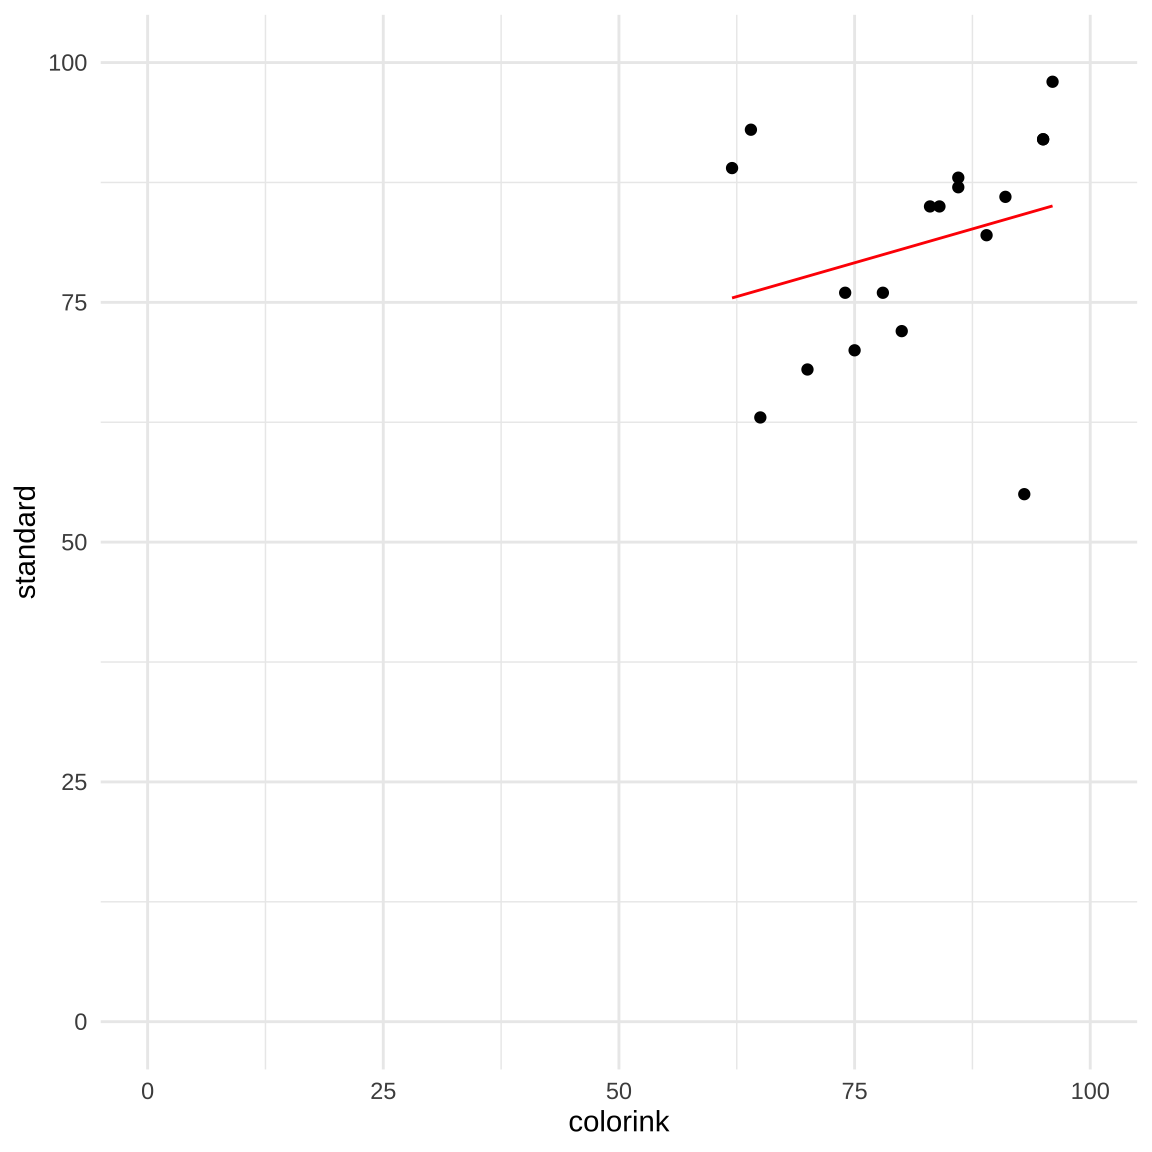
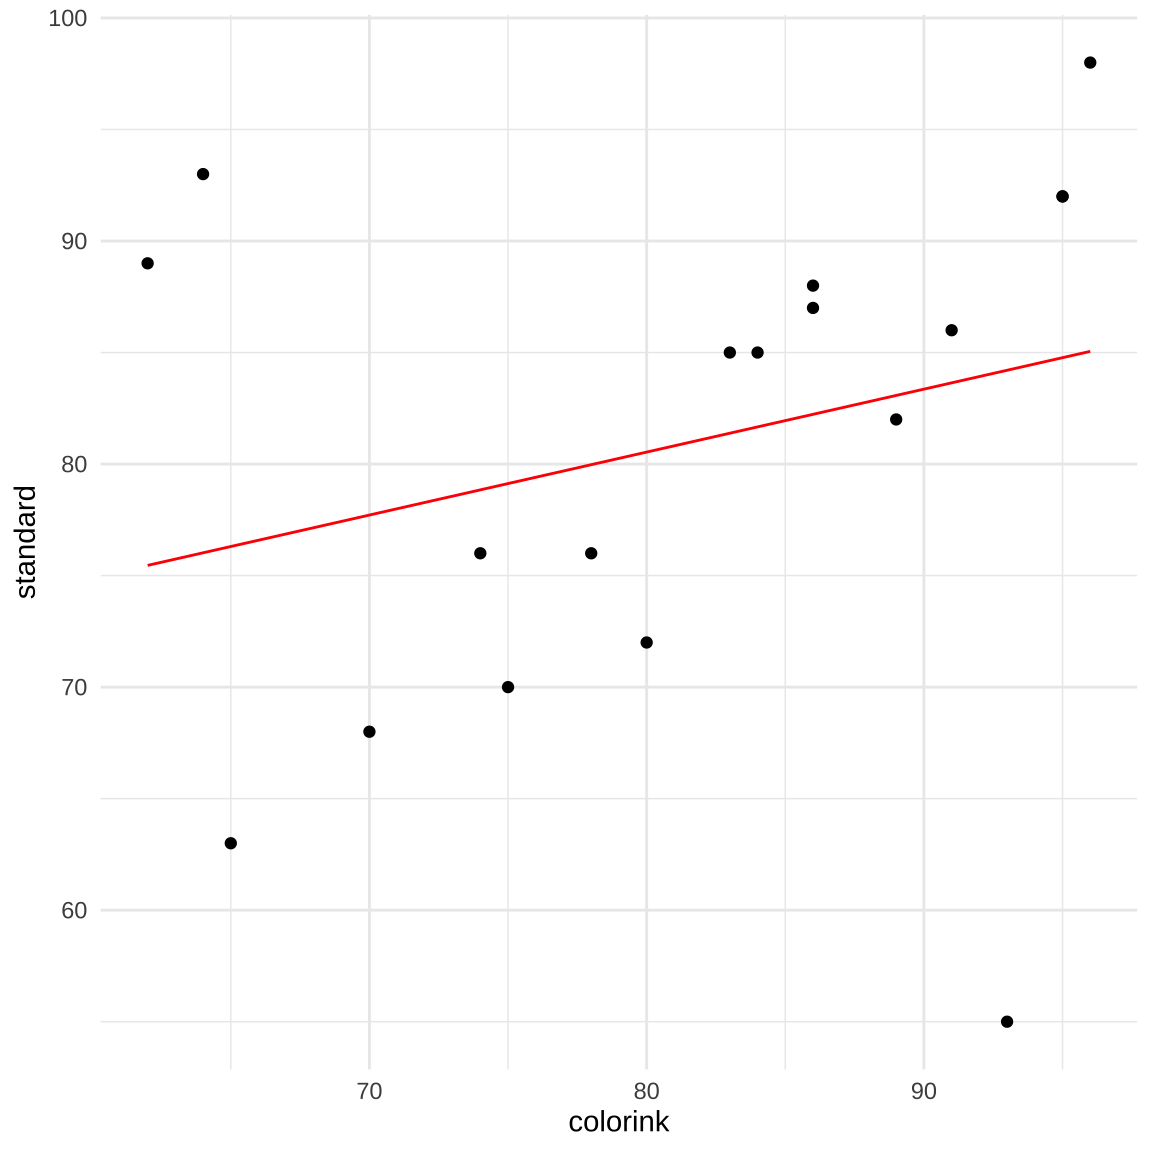
added text

diff --git a/docs/stat-modeling-outlier.html b/docs/stat-modeling-outlier.html
@@ -752,7 +752,7 @@ div.csl-indent {
 
 </header>
 
-<p><em>Letzte Änderung am 17. January 2024 um 20:40:24</em></p>
+<p><em>Letzte Änderung am 17. January 2024 um 21:02:34</em></p>
 <blockquote class="blockquote">
 <p><em>“You should be far more concentrated with your current trajectory than with your current results” — Atomic Habits’</em></p>
 </blockquote>
@@ -1488,20 +1488,47 @@ Anwendungsbeispiel: Ausreißer in einer simplen Regression
 <p><span class="citation" data-cites="hardin2007generalized">Hardin und Hilbe (<a href="#ref-hardin2007generalized" role="doc-biblioref">2007</a>)</span> bezeichnen Werte, die über <span class="math inline">\(4/n\)</span> liegen als problematisch. <span class="math inline">\(n\)</span> ist hierbei die Stichprobengröße. Unsere Grenze wäre damit bei <span class="math inline">\(4/18 = 0.22\)</span></p>
 </dd>
 </dl>
-<div class="cell" data-layout-align="center">
-<div class="sourceCode cell-code" id="cb36"><pre class="sourceCode r code-with-copy"><code class="sourceCode r"><span id="cb36-1"><a href="#cb36-1" aria-hidden="true" tabindex="-1"></a>standard_colorink_tbl <span class="sc">%&gt;%</span> </span>
-<span id="cb36-2"><a href="#cb36-2" aria-hidden="true" tabindex="-1"></a>  <span class="fu">ggplot</span>(<span class="fu">aes</span>(colorink, standard)) <span class="sc">+</span></span>
-<span id="cb36-3"><a href="#cb36-3" aria-hidden="true" tabindex="-1"></a>  <span class="fu">theme_minimal</span>() <span class="sc">+</span></span>
-<span id="cb36-4"><a href="#cb36-4" aria-hidden="true" tabindex="-1"></a>  <span class="fu">ylim</span>(<span class="dv">0</span>, <span class="dv">100</span>) <span class="sc">+</span> <span class="fu">xlim</span>(<span class="dv">0</span>, <span class="dv">100</span>) <span class="sc">+</span></span>
-<span id="cb36-5"><a href="#cb36-5" aria-hidden="true" tabindex="-1"></a>  <span class="fu">geom_point</span>() <span class="sc">+</span></span>
-<span id="cb36-6"><a href="#cb36-6" aria-hidden="true" tabindex="-1"></a>  <span class="fu">geom_line</span>(<span class="fu">aes</span>(<span class="at">y =</span> <span class="fu">predict</span>(fit)), <span class="at">color =</span> <span class="st">"red"</span>)</span></code><button title="In die Zwischenablage kopieren" class="code-copy-button"><i class="bi"></i></button></pre></div>
-<div class="cell-output-display">
-<div id="fig-app-compare-outlier-1" class="quarto-figure quarto-figure-center anchored">
+<div class="cell">
+<div class="sourceCode cell-code" id="cb36"><pre class="sourceCode r code-with-copy"><code class="sourceCode r"><span id="cb36-1"><a href="#cb36-1" aria-hidden="true" tabindex="-1"></a>clean_tbl <span class="ot">&lt;-</span> fit <span class="sc">%&gt;%</span> </span>
+<span id="cb36-2"><a href="#cb36-2" aria-hidden="true" tabindex="-1"></a>  <span class="fu">augment</span>() <span class="sc">%&gt;%</span> </span>
+<span id="cb36-3"><a href="#cb36-3" aria-hidden="true" tabindex="-1"></a>  <span class="fu">filter</span>(.cooksd <span class="sc">&lt;</span> <span class="fl">0.22</span>)</span></code><button title="In die Zwischenablage kopieren" class="code-copy-button"><i class="bi"></i></button></pre></div>
+</div>
+<p>Residuals mean plus minus 2</p>
+<div>
+<div class="sourceCode cell-code" id="cb37"><pre class="sourceCode r code-with-copy"><code class="sourceCode r"><span id="cb37-1"><a href="#cb37-1" aria-hidden="true" tabindex="-1"></a>standard_colorink_tbl <span class="sc">%&gt;%</span> </span>
+<span id="cb37-2"><a href="#cb37-2" aria-hidden="true" tabindex="-1"></a>  <span class="fu">ggplot</span>(<span class="fu">aes</span>(colorink, standard)) <span class="sc">+</span></span>
+<span id="cb37-3"><a href="#cb37-3" aria-hidden="true" tabindex="-1"></a>  <span class="fu">theme_minimal</span>() <span class="sc">+</span></span>
+<span id="cb37-4"><a href="#cb37-4" aria-hidden="true" tabindex="-1"></a>  <span class="co">#ylim(0, 100) + xlim(0, 100) +</span></span>
+<span id="cb37-5"><a href="#cb37-5" aria-hidden="true" tabindex="-1"></a>  <span class="fu">geom_point</span>() <span class="sc">+</span></span>
+<span id="cb37-6"><a href="#cb37-6" aria-hidden="true" tabindex="-1"></a>  <span class="fu">geom_line</span>(<span class="fu">aes</span>(<span class="at">y =</span> <span class="fu">predict</span>(fit)), <span class="at">color =</span> <span class="st">"red"</span>)</span>
+<span id="cb37-7"><a href="#cb37-7" aria-hidden="true" tabindex="-1"></a></span>
+<span id="cb37-8"><a href="#cb37-8" aria-hidden="true" tabindex="-1"></a>clean_tbl <span class="sc">%&gt;%</span> </span>
+<span id="cb37-9"><a href="#cb37-9" aria-hidden="true" tabindex="-1"></a>  <span class="fu">ggplot</span>(<span class="fu">aes</span>(colorink, standard)) <span class="sc">+</span></span>
+<span id="cb37-10"><a href="#cb37-10" aria-hidden="true" tabindex="-1"></a>  <span class="fu">theme_minimal</span>() <span class="sc">+</span></span>
+<span id="cb37-11"><a href="#cb37-11" aria-hidden="true" tabindex="-1"></a>  <span class="co">#ylim(0, 100) + xlim(0, 100) +</span></span>
+<span id="cb37-12"><a href="#cb37-12" aria-hidden="true" tabindex="-1"></a>  <span class="fu">geom_point</span>() </span></code><button title="In die Zwischenablage kopieren" class="code-copy-button"><i class="bi"></i></button></pre></div>
+<div id="fig-app-compare-outlier-1" class="cell quarto-layout-panel">
 <figure class="figure">
-<p><img src="stat-modeling-outlier_files/figure-html/fig-app-compare-outlier-1-1.png" class="img-fluid figure-img" width="576"></p>
-<figcaption class="figure-caption">Abbildung&nbsp;41.5— Densityplot der Verteilungen vor und nach der Imputation.</figcaption>
+<div class="quarto-layout-row quarto-layout-valign-top">
+<div class="cell-output-display quarto-layout-cell quarto-layout-cell-subref" style="flex-basis: 50.0%;justify-content: center;">
+<div id="fig-app-compare-outlier-1-1" class="quarto-figure quarto-figure-center anchored">
+<figure class="figure">
+<p><img src="stat-modeling-outlier_files/figure-html/fig-app-compare-outlier-1-1.png" class="img-fluid figure-img" data-ref-parent="fig-app-compare-outlier-1" width="576"></p>
+<figcaption class="figure-caption">(a) Imputation mit dem Mittelwert.</figcaption>
 </figure>
 </div>
+</div>
+<div class="cell-output-display quarto-layout-cell quarto-layout-cell-subref" style="flex-basis: 50.0%;justify-content: center;">
+<div id="fig-app-compare-outlier-1-2" class="quarto-figure quarto-figure-center anchored">
+<figure class="figure">
+<p><img src="stat-modeling-outlier_files/figure-html/fig-app-compare-outlier-1-2.png" class="img-fluid figure-img" data-ref-parent="fig-app-compare-outlier-1" width="576"></p>
+<figcaption class="figure-caption">(b) Imputation mit dem Median.</figcaption>
+</figure>
+</div>
+</div>
+</div>
+<p></p><figcaption class="figure-caption">Abbildung&nbsp;41.5— Densityplot der Verteilungen vor und nach der Imputation.</figcaption><p></p>
+</figure>
 </div>
 </div>
 </div>
